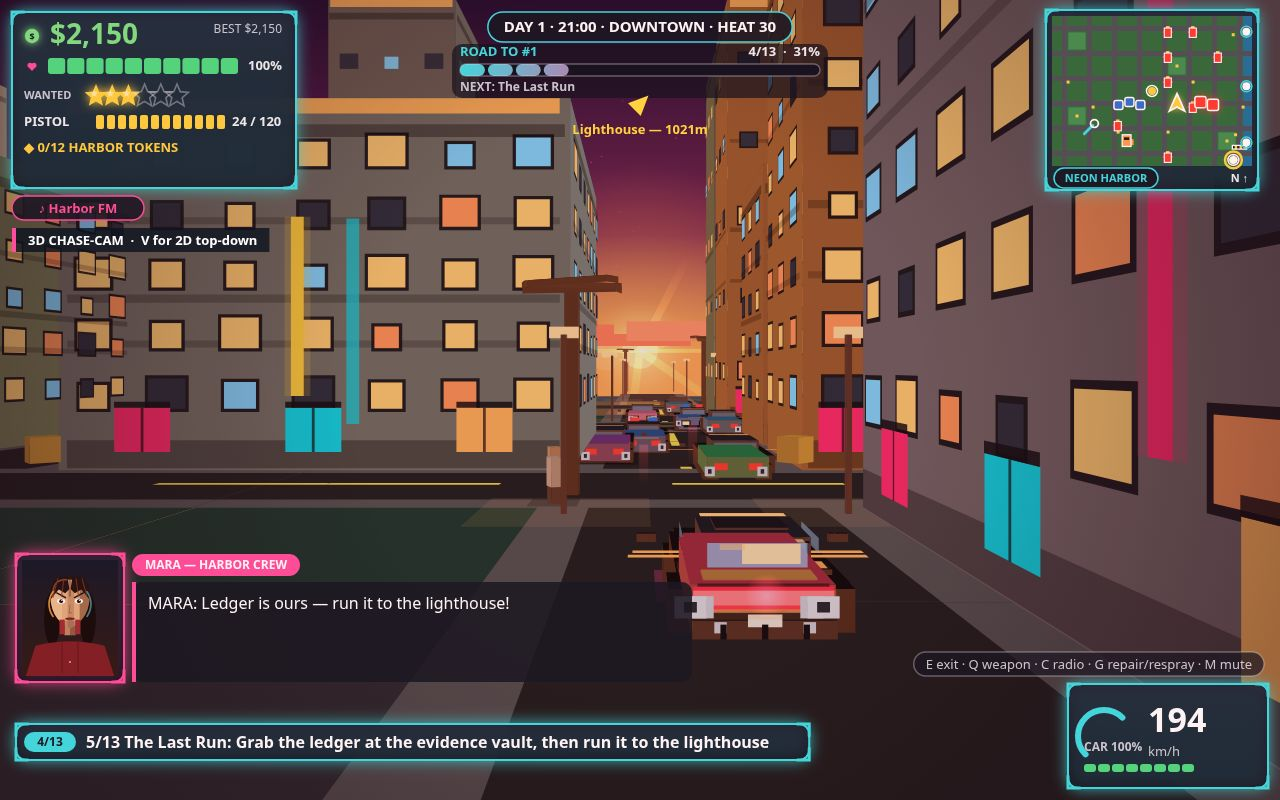
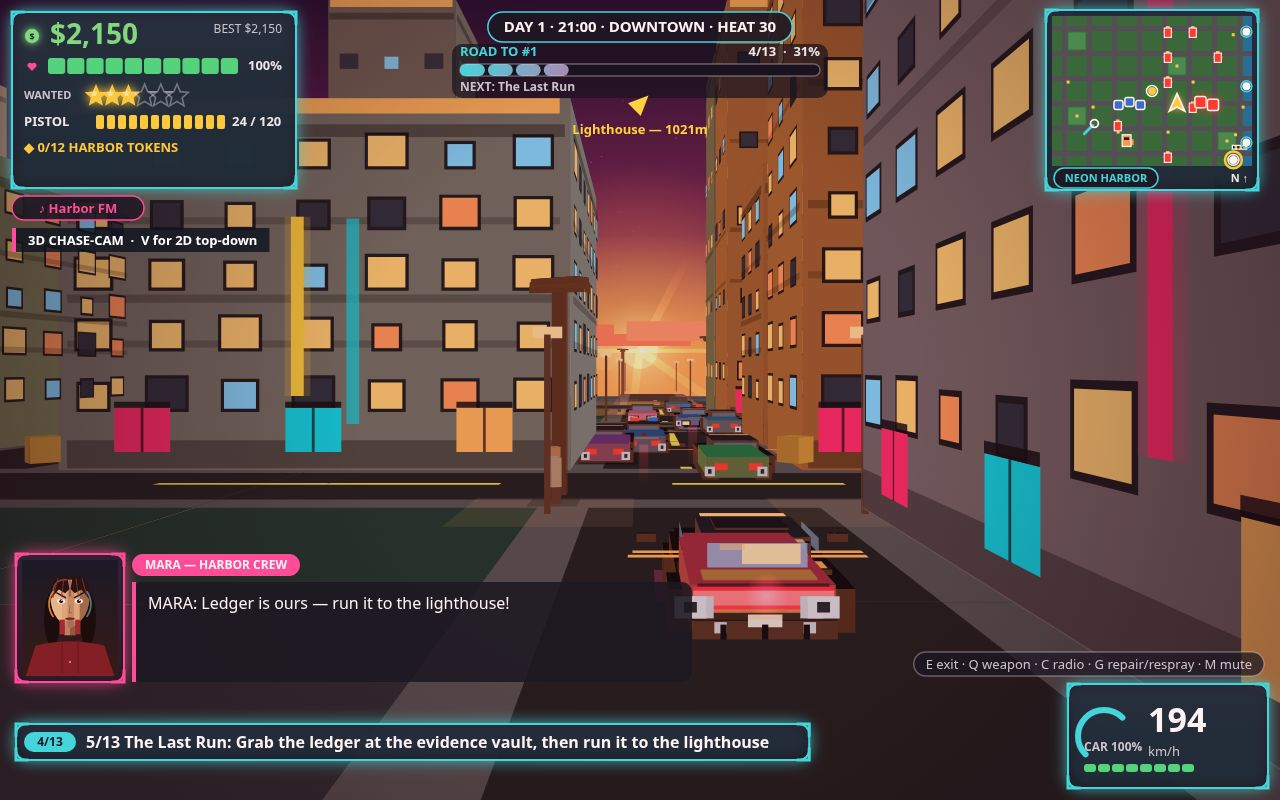
R25e: POLE-FIX-2 — tiang tegas ke trotoar (walkLat 4.8; mobil 0 overlap, VB-01/03/04 + R25c 8 bug tetap mati)

diff --git a/game/src/city3d.js b/game/src/city3d.js
@@ -1266,7 +1266,18 @@ export function drawChase3D(ctx, state) {
     const roadX = city.roadsV.reduce((a, b) => Math.abs(b - hx) < Math.abs(a - hx) ? b : a);
     return (roadX * CS - ccX) * -cfZ;
   })();
-  const walkLat = 4.3; // sidewalk centre, in 3D units (43px from road centre)
+  // POLEFIX2: lamps + palms sit HARD on the sidewalk, flush with the
+  // building line — walkLat 4.8 (48px from the road centreline: 12px
+  // past the 36px asphalt edge, 2px off the 50px facade). JF4's 4.3
+  // (mid-sidewalk, 7px past the edge) FAILED on screen: at the
+  // chase-cam's grazing angle the 7px strip projects to a sliver, so
+  // the trunk base still read as standing on the asphalt edge and the
+  // T-arm overhung the road (parent verified at 2x zoom: trunk x~571,
+  // base y~510, dark asphalt immediately left AND right of the base).
+  // Palms use EXACTLY walkLat now (JF4's +h2*0.3 drifted them to 5.1,
+  // inside the wall). Fronds shortened 3.4 -> 2.0 so the canopy's inner
+  // tip (38px) clears the 36px road edge instead of overhanging it.
+  const walkLat = 4.8; // sidewalk outer edge, in 3D units (48px from road centre)
   // round 21: fill the dark flanks — lamp posts on both sidewalks every
   // ~45 units (pole + lit head + light pool) and palm silhouettes every
   // ~90 units alternating sides (trunk + fronds, dark + warm rim).
@@ -1285,7 +1296,7 @@ export function drawChase3D(ctx, state) {
     }
   }
   if (p.inCar) for (let pi = 0; pi < 3; pi += 1) {
-    const fwd = 30 + pi * 55, lat = roadLat + (pi % 2 === 0 ? -1 : 1) * (walkLat + h2(pi, 7) * 0.3);
+    const fwd = 30 + pi * 55, lat = roadLat + (pi % 2 === 0 ? -1 : 1) * walkLat;
     const pxp = ccX + cfX * fwd + (-cfZ) * lat, pzp = ccZ + cfZ * fwd + cfX * lat;
     const wxp = pxp / CS, wzp = pzp / CS;
     if (!inRange(wxp, wzp, 175, 135)) continue;
@@ -1293,9 +1304,9 @@ export function drawChase3D(ctx, state) {
     box3(pxp, 0, pzp, 0.5, 7.2, 0.5, 0, '#1c1410', pdep);
     for (let fr = 0; fr < 3; fr += 1) {
       const fa = h2(pi * 5 + fr, 11) * Math.PI;
-      box3(pxp, 7.0 + fr * 0.15, pzp, 3.4, 0.22, 0.7, fa, '#241a12', pdep);
+      box3(pxp, 7.0 + fr * 0.15, pzp, 2.0, 0.22, 0.7, fa, '#241a12', pdep);
     }
-    topStrip(pxp, pzp, 0, 0, 0, 3.2, 0.7, 7.35, 'rgba(255,170,100,0.5)');
+    topStrip(pxp, pzp, 0, 0, 0, 2.0, 0.7, 7.35, 'rgba(255,170,100,0.5)');
   }
   // street lamps at night: glowing dots at nearby intersections
   if (nightF > 0.4) {
